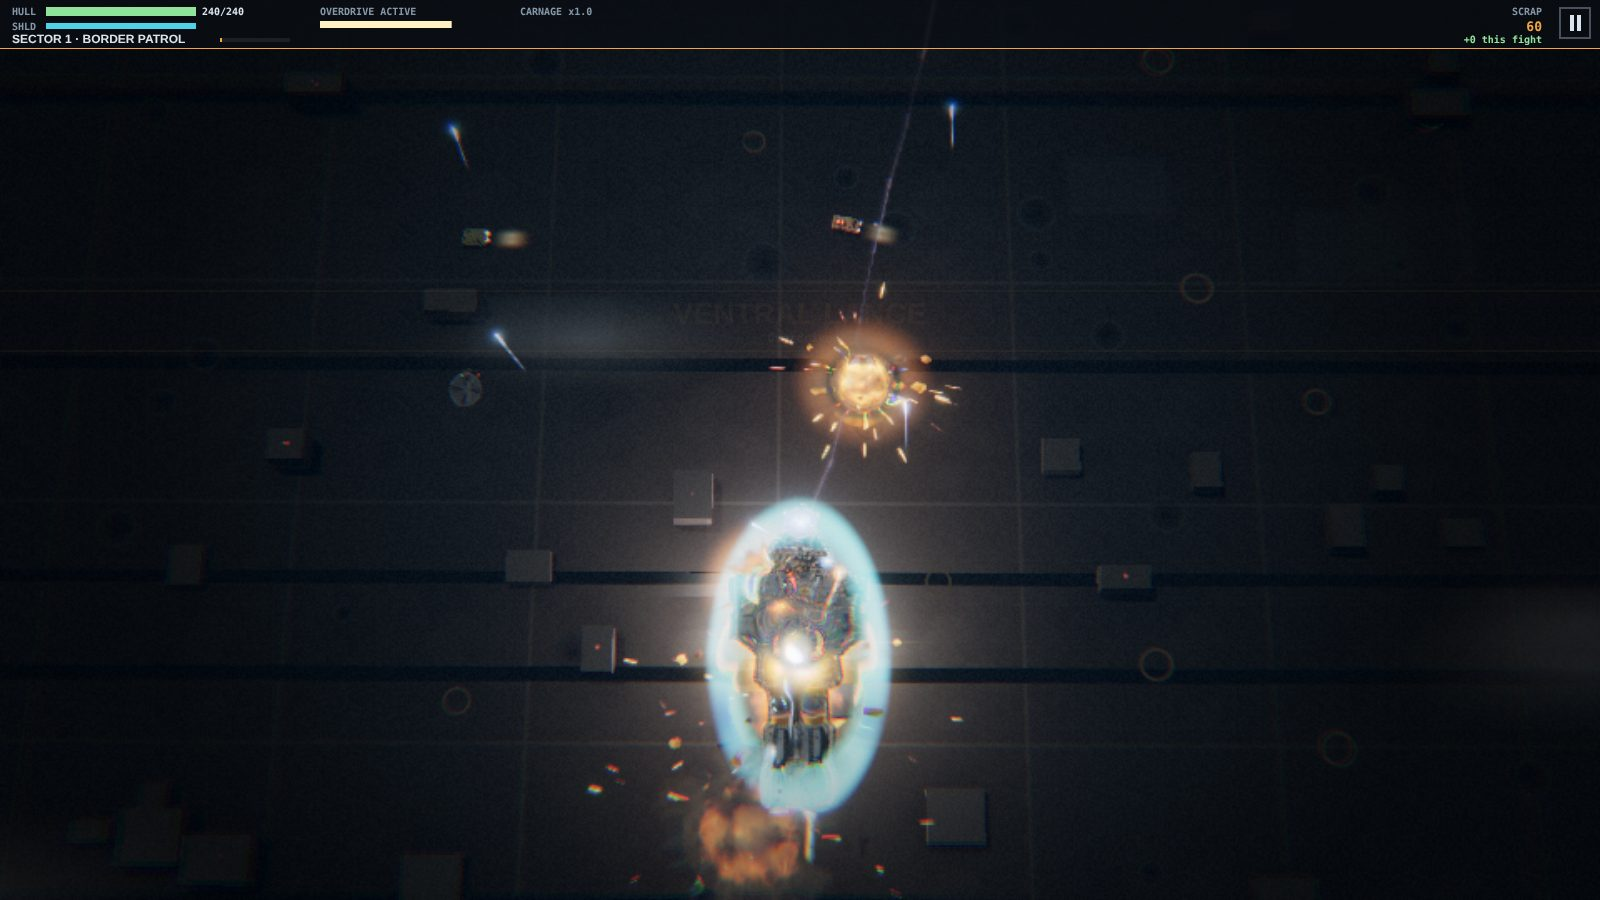
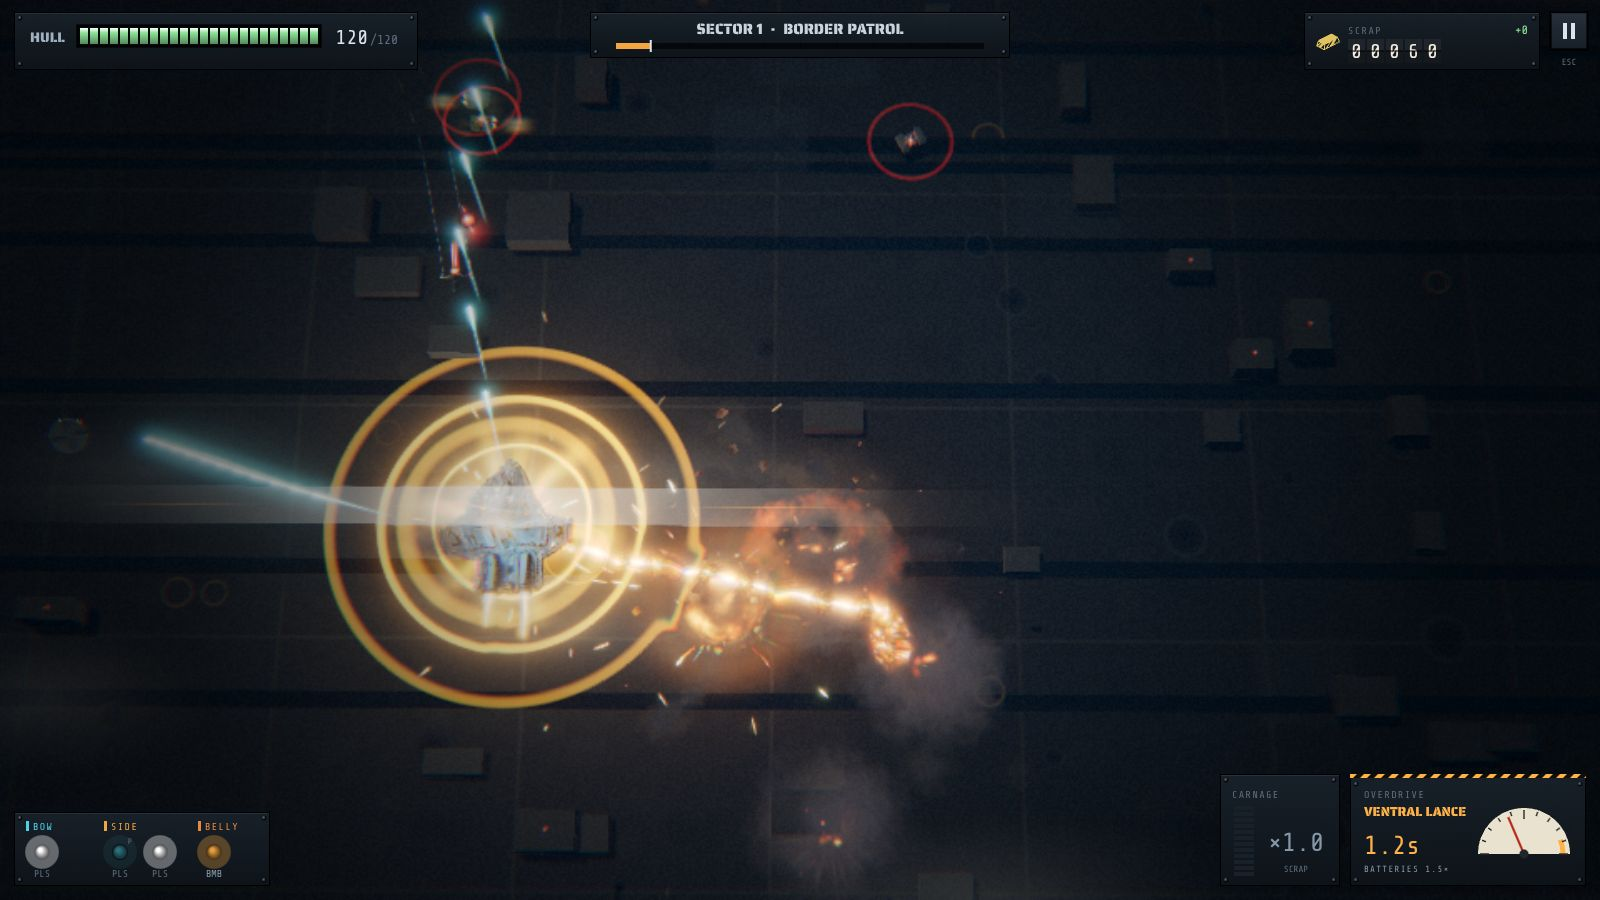
Ghost broadside rails ride with their gun; screenshots of ghost phases and the Lance
Claude-Session: https://claude.ai/code/session_013gCGajPg7k7sM5MfjeQhGC

diff --git a/src/game/combat.ts b/src/game/combat.ts
@@ -420,7 +420,7 @@ function bossRound(b: Boss, w: BossGun, side: number, r: number, R: number, lock
     case 'spread': for (const o of [-0.08, 0, 0.08]) eShot(x, y, a + o, spd * 0.85, { dmg, col: '#ff7a6b' }); break;
     case 'flak': { const dist = clamp(Math.hypot(P.x - x, P.y - y), 140, 700); eShot(x, y, a, 160, { kind: 'orb', r: 8, life: dist / 160, col: '#ffd27a', dmg, burst: 6 }); break; }
     case 'missile': for (const o of [-1, 1]) eShot(x, y + o * 8, a + o * 0.25, 150, { kind: 'missile', turn: 1.5 + 0.2 * t, spd: 150 + 10 * t, hp: 5 * S.sector, life: 5, r: 5, col: '#ff9f5a', dmg: dmg * 2 }); break;
-    case 'rail': S.eb.push({ kind: 'beam', x, y, x2: x + Math.cos(a) * 1900, y2: y + Math.sin(a) * 1900, warn: 0.55, dur: 0.3, w: 16 + 3 * t, dmg: dmg * 6, t: 0, life: 9, vx: 0, vy: 0, r: 0, col: '#c9a6ff', dead: false, src: 'boss:broadside' }); break;
+    case 'rail': S.eb.push({ kind: 'beam', x, y, x2: x + Math.cos(a) * 1900, y2: y + Math.sin(a) * 1900, warn: 0.55, dur: 0.3, w: 16 + 3 * t, dmg: dmg * 6, t: 0, life: 9, vx: 0, vy: 0, r: 0, col: '#c9a6ff', dead: false, src: 'boss:broadside', gun: w, side }); break;
     default: for (const o of [-7, 7]) eShot(x, y + o, a, spd, { dmg }); // twin barrels: pulse and anything else
   }
   // phase 3 adds a slow second layer under the fast one
@@ -1107,6 +1107,9 @@ function updateEB(dt: number) {
     if (b.dead) continue;
     b.t += dt; b.life -= dt;
     if (b.kind === 'beam') {
+      // a ghost's broadside rail rides with its gun as the ship moves; the line keeps its angle
+      const G = S.boss;
+      if (b.gun && G && G.alive) { const p = bossGunPos(G, b.gun, b.side), dx = p.x - b.x, dy = p.y - b.y; b.x += dx; b.y += dy; b.x2 += dx; b.y2 += dy; }
       if (!b.charged) { b.charged = true; sfx('railCharge', { x: b.x, y: b.y, layer: 'air' }); }
       if (b.t >= b.warn && !b.fired) {
         b.fired = true; sfx('rail', { x: b.x, layer: 'air' }); V.shake = Math.min(10, V.shake + 5); V.flashA = Math.max(V.flashA, 0.12);
